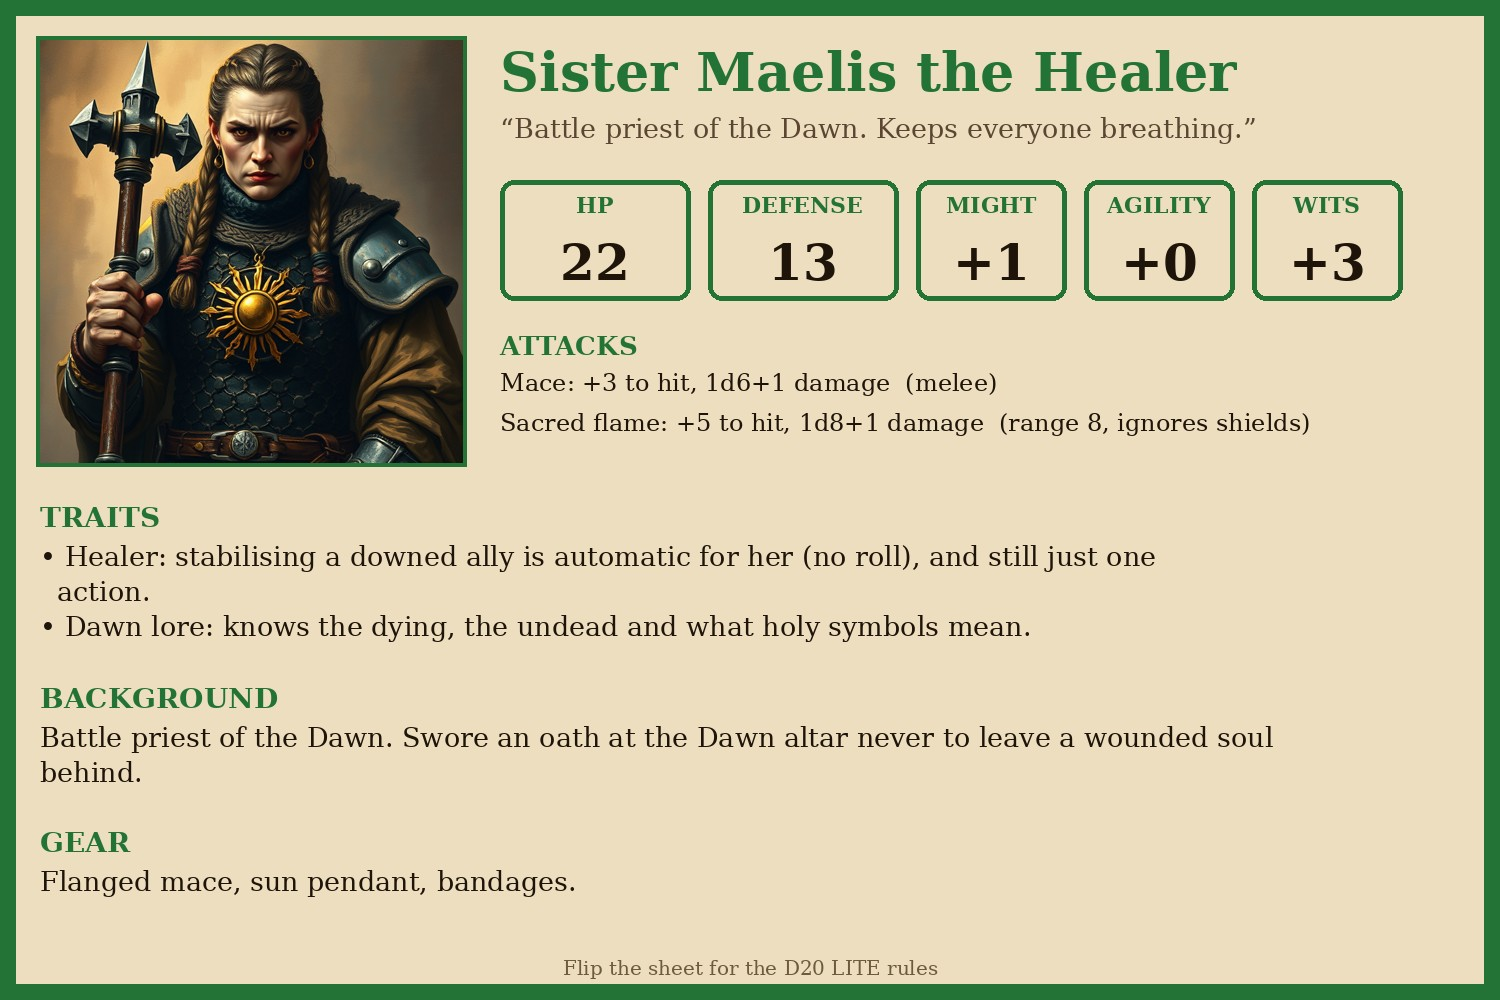
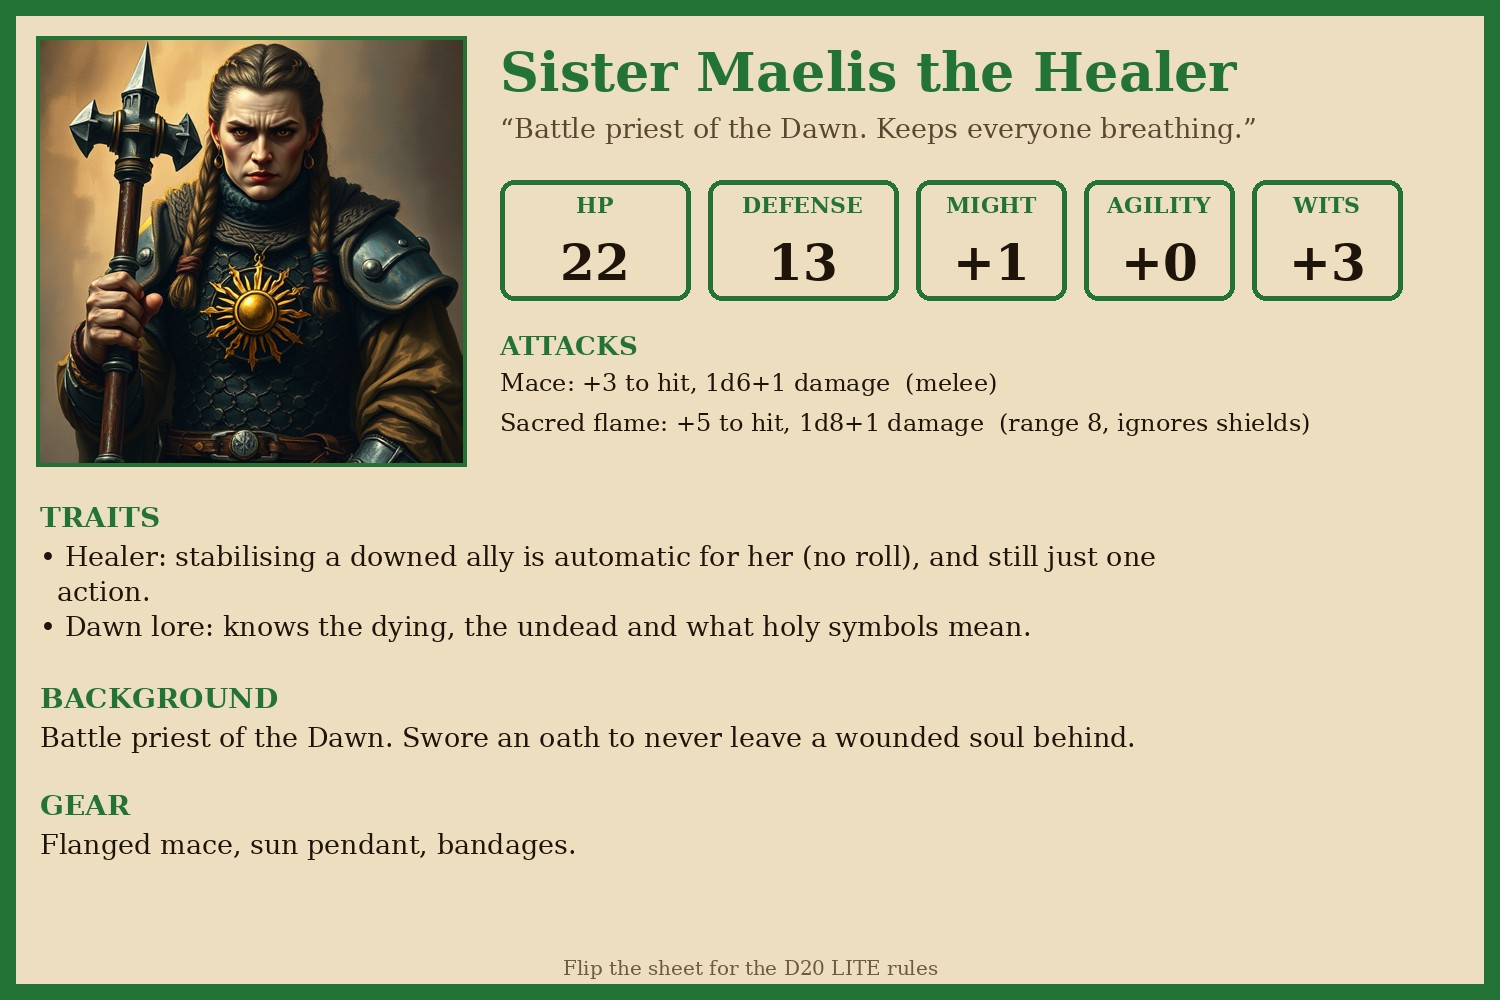
Maelis background: shorter oath line

Changed region(s): [[0.0307, 0.744, 0.368, 0.899], [0.3987, 0.713, 0.8587, 0.744]]

diff --git a/content.py b/content.py
@@ -79,7 +79,7 @@ HEROES = [
          blurb="Battle priest of the Dawn. Keeps everyone breathing.",
          traits=["Healer: stabilising a downed ally is automatic for her (no roll), and still just one action.",
                  "Dawn lore: knows the dying, the undead and what holy symbols mean."],
-         background="Battle priest of the Dawn. Swore an oath at the Dawn altar never to leave a wounded soul behind.",
+         background="Battle priest of the Dawn. Swore an oath to never leave a wounded soul behind.",
          gear="Flanged mace, sun pendant, bandages.",
          portrait="a stout middle-aged battle priestess in chainmail holding a flanged mace, a golden sun pendant on her chest, kind stern face, braided hair, warm light",
          cards=[
